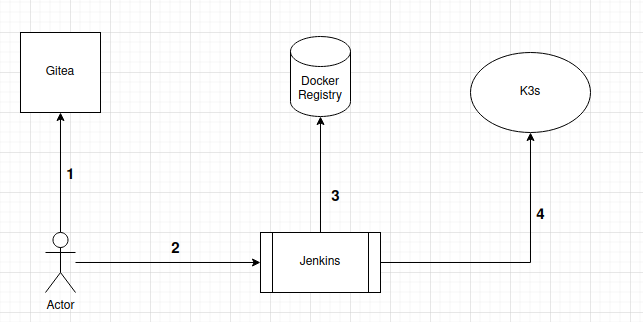
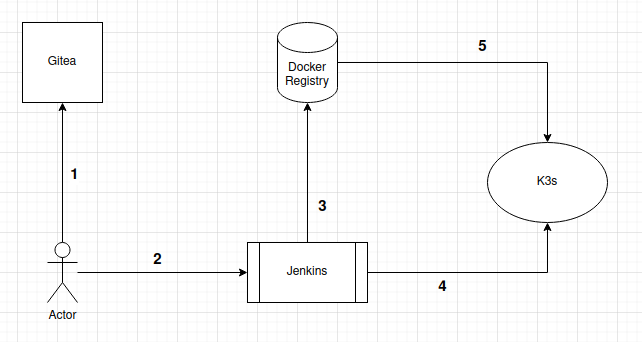
update readme

diff --git a/README.md b/README.md
@@ -9,6 +9,9 @@
 
 4. Jenkins update kube deployment
 
+5. Pull latest image from private registry
+
+
   
   
 
@@ -27,7 +30,7 @@ This Repo act as a personal note for learning and deploy CI/CD in local using :
   
 
 ### Prerequisites
-	
+
 1. Docker
 
 2. Docker Compose
